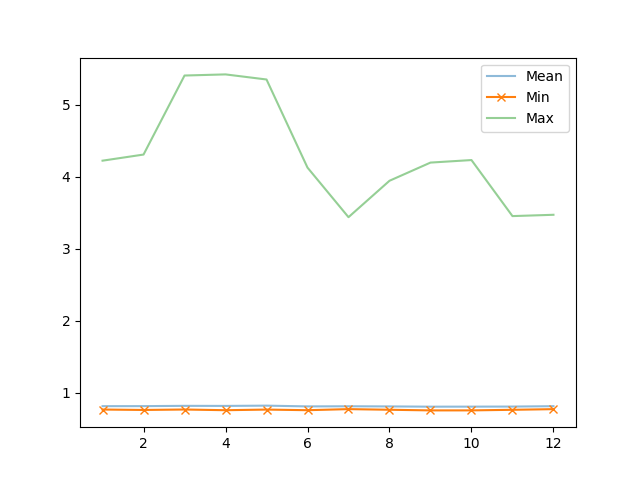
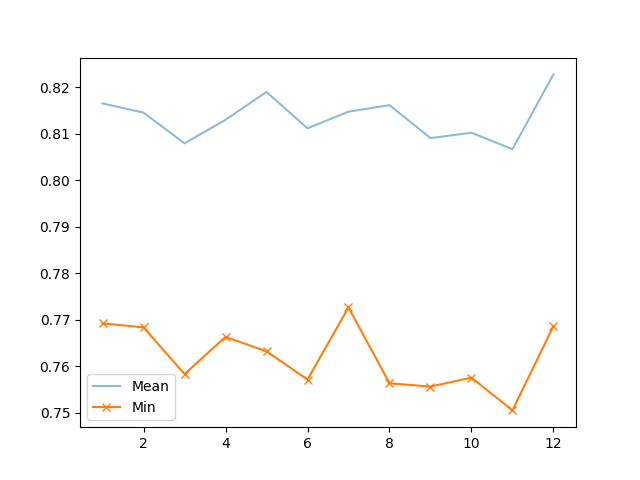
failed timing

diff --git a/timingTest/timeLogin.py b/timingTest/timeLogin.py
@@ -59,7 +59,7 @@ def analyze_results(timeprobe):
     ax.plot(lenghts_to_test, meantimes, alpha=0.5, label="Mean")
     ax.plot(lenghts_to_test, mintimes , marker="x", label="Min")
     #ax.plot(lenghts_to_test, maxtimes , alpha=0.5, label="Max")
-    ax.set_yscale('log')
+    #ax.set_yscale('log')
     ax.legend()
     plt.savefig("times.png")
 
